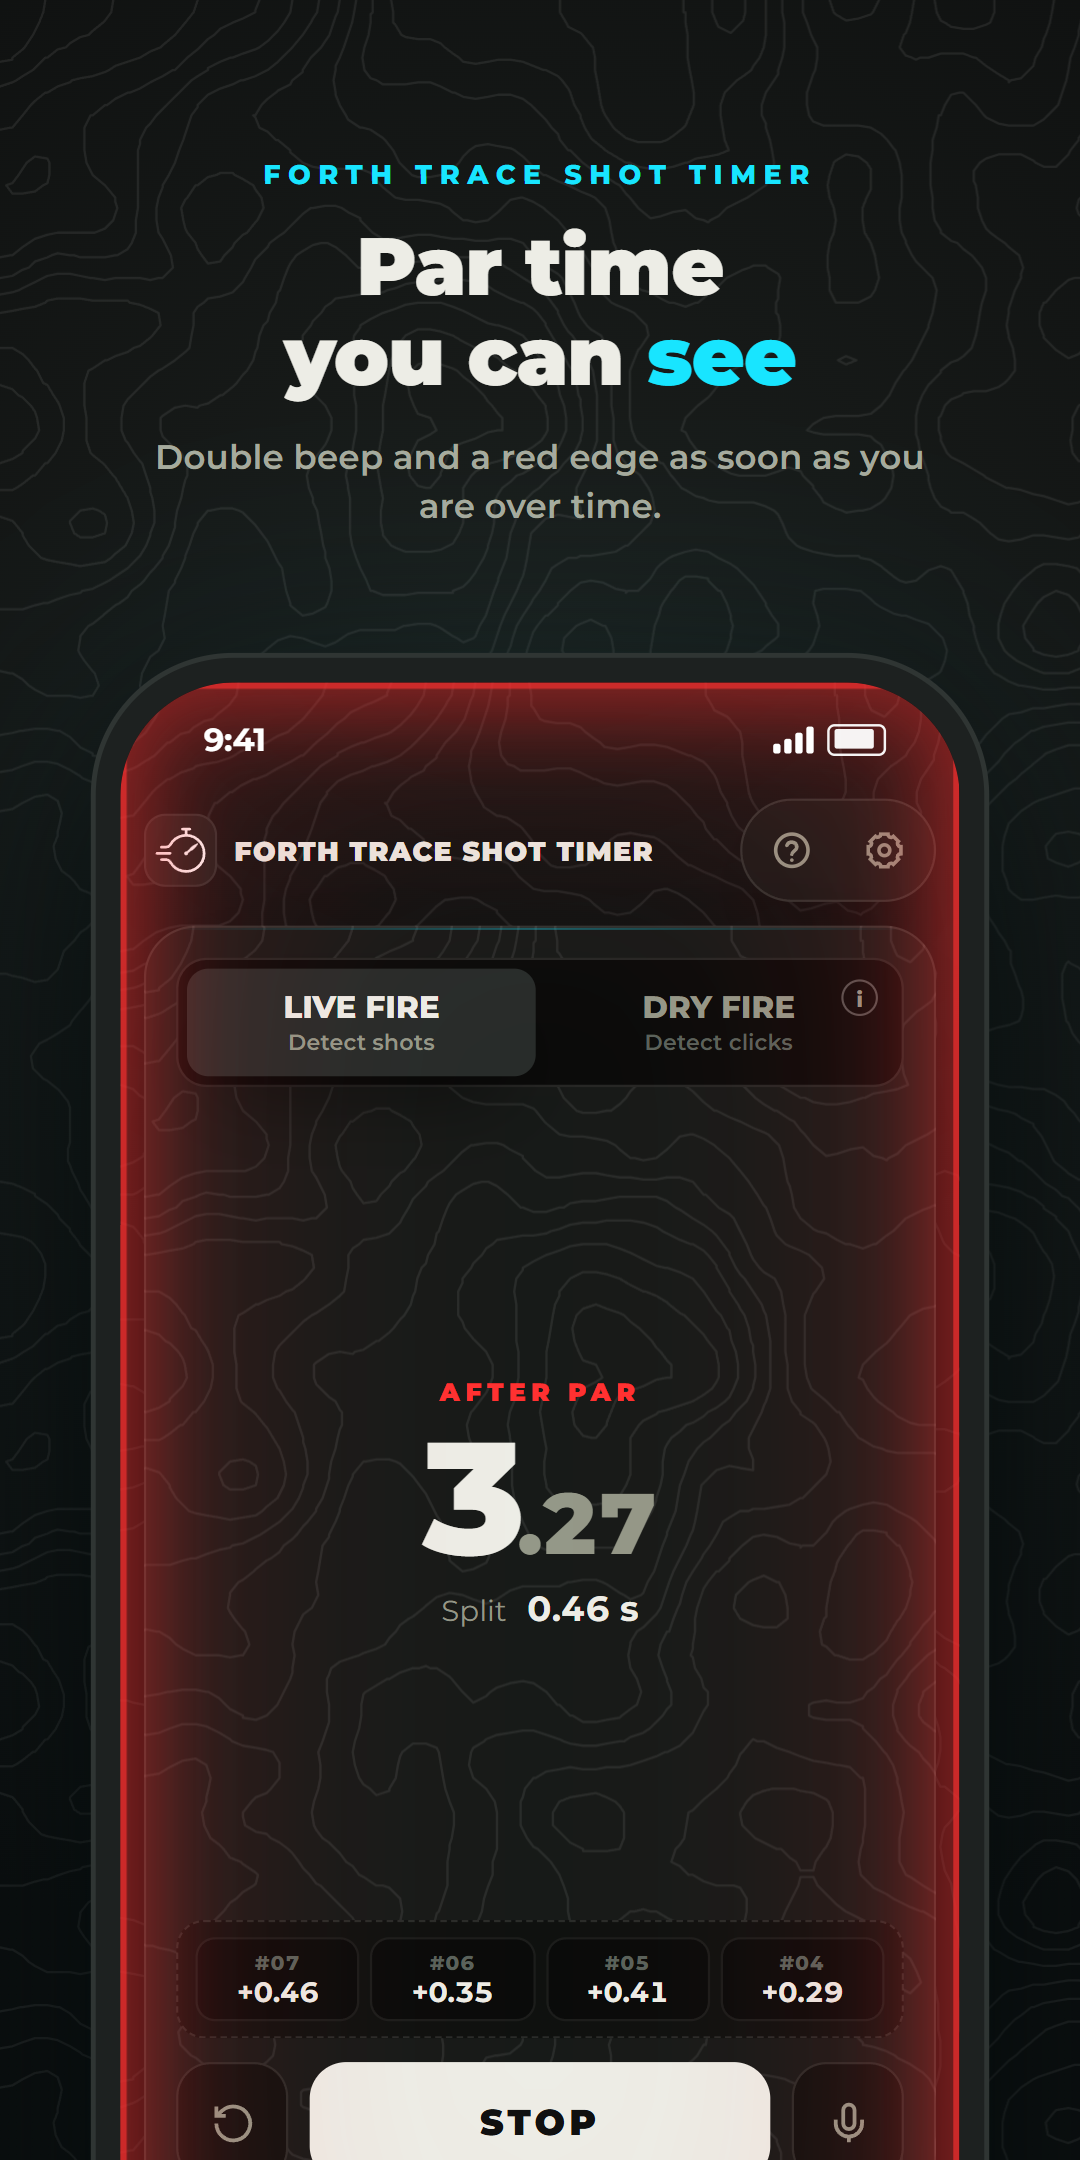
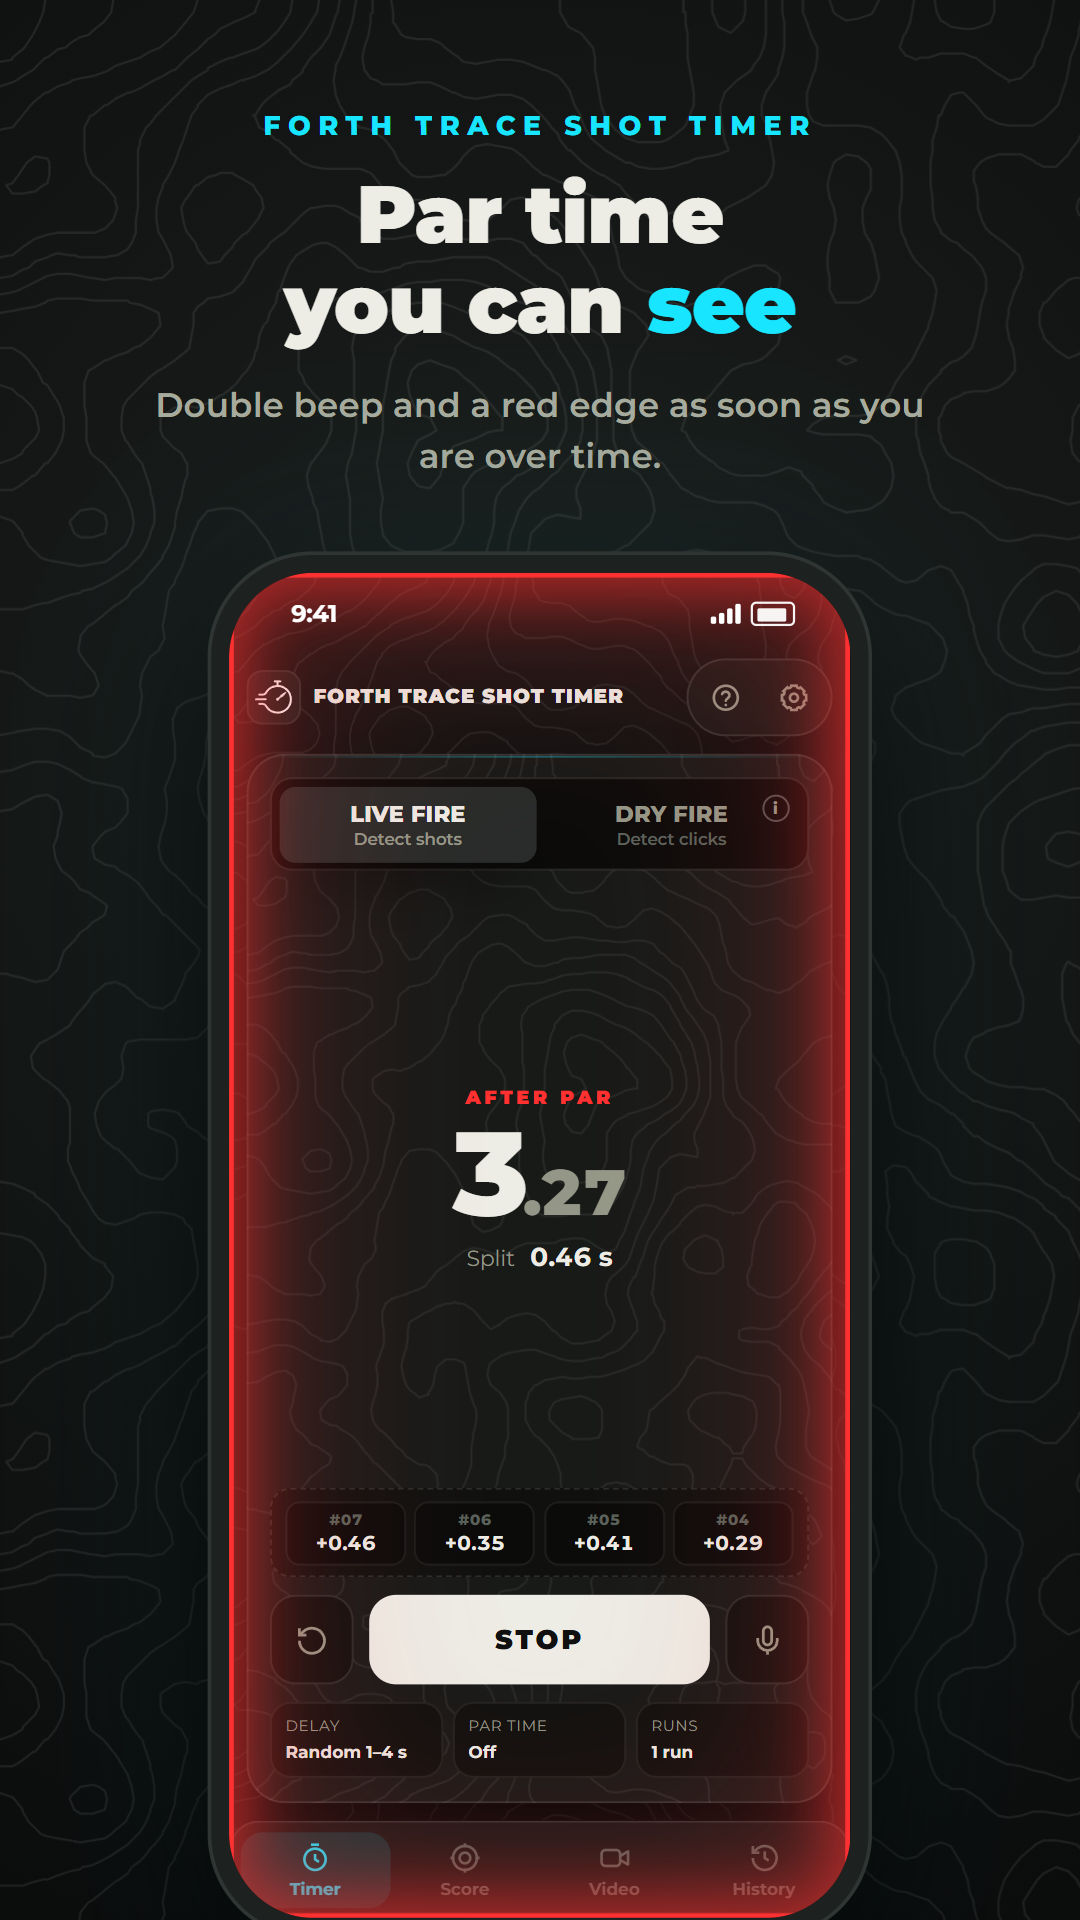
Google-Play-Screenshots in 9:16 (1080 x 1920), wie die Play Console verlangt

diff --git a/store/shots.html b/store/shots.html
@@ -56,7 +56,9 @@
   }
   // ?play=1: Fassung für Google Play – neutraler Telefonrahmen ohne Dynamic Island, Texte ohne „iPhone“.
   const PLAY = !!q.get('play');
-  if (PLAY) document.head.insertAdjacentHTML('beforeend', '<style>.island,.phone2 .isl{display:none}</style>');
+  // 9:16 (1080 x 1920): Kopf etwas höher, Telefon verkleinert, damit es ganz ins Bild passt.
+  if (PLAY) document.head.insertAdjacentHTML('beforeend', '<style>.island,.phone2 .isl{display:none}' +
+    (q.get('bare') ? '' : '.head{top:44px}.phone{top:226px;transform:translateX(-50%) scale(.74);transform-origin:50% 0}.phone2{top:548px;transform:rotate(-5deg) scale(.86)}') + '</style>');
   const SHOT = Number(q.get('shot') || 1);
   const LANG = q.get('lang') || 'de';
 

diff --git a/store/app-store.md b/store/app-store.md
@@ -215,7 +215,7 @@ Konto: Organisationskonto (kein Pflicht-Test mit 12 Testern). Paketname `de.fort
 |---|---|
 | App-Symbol (512 × 512) | `store/play/icon-512.png` |
 | Vorstellungsgrafik (1024 × 500) | `store/header/header-1024x500.png` |
-| Screenshots Smartphone (1080 × 2160, 2–8 Stück) | `store/screenshots/en-play/1–8.png` – Reihenfolge 1, 7, 8, 2, 3, 4, 5, 6 |
+| Screenshots Smartphone (1080 × 1920, 9:16, 2–8 Stück) | `store/screenshots/en-play/1–8.png` – Reihenfolge 1, 7, 8, 2, 3, 4, 5, 6 |
 
 Neu erzeugen: `node tools/store-shots.mjs en --play` und `node tools/store-header.mjs play`.
 
